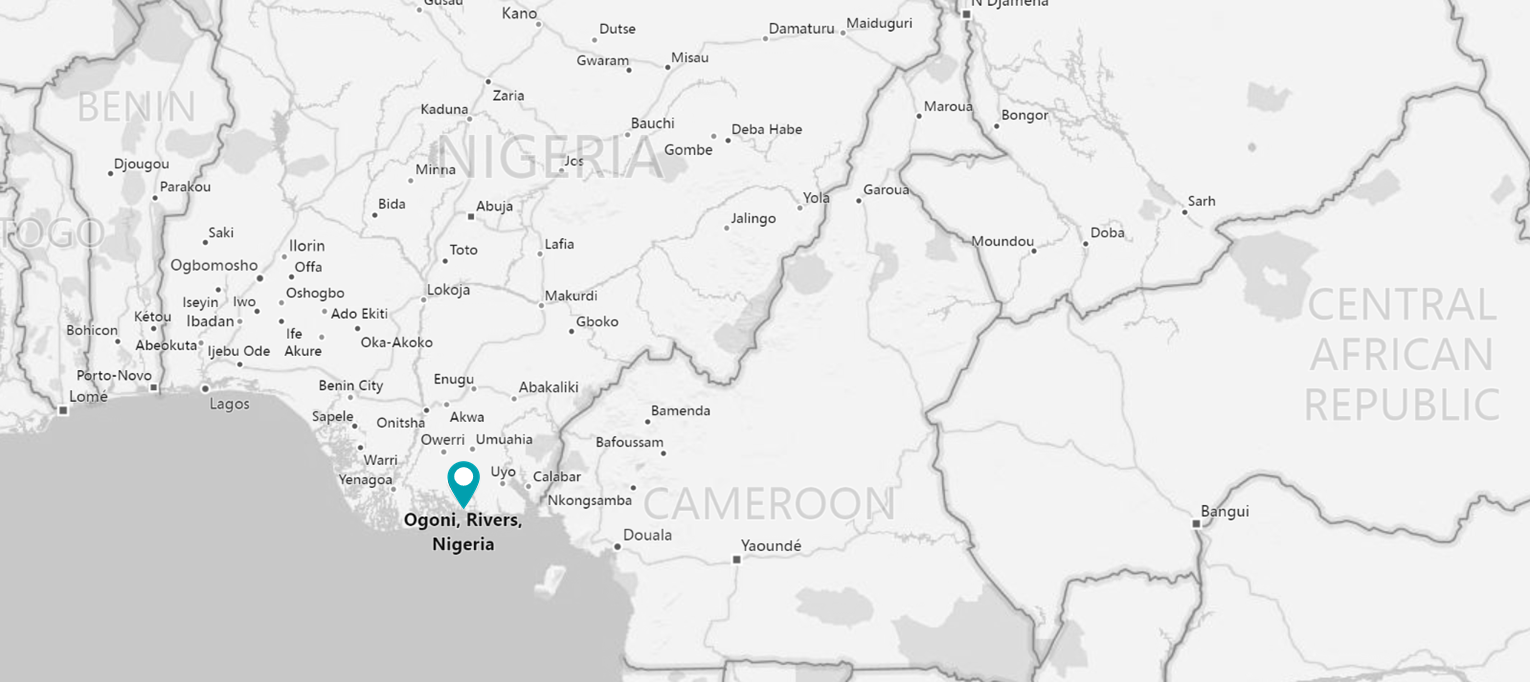
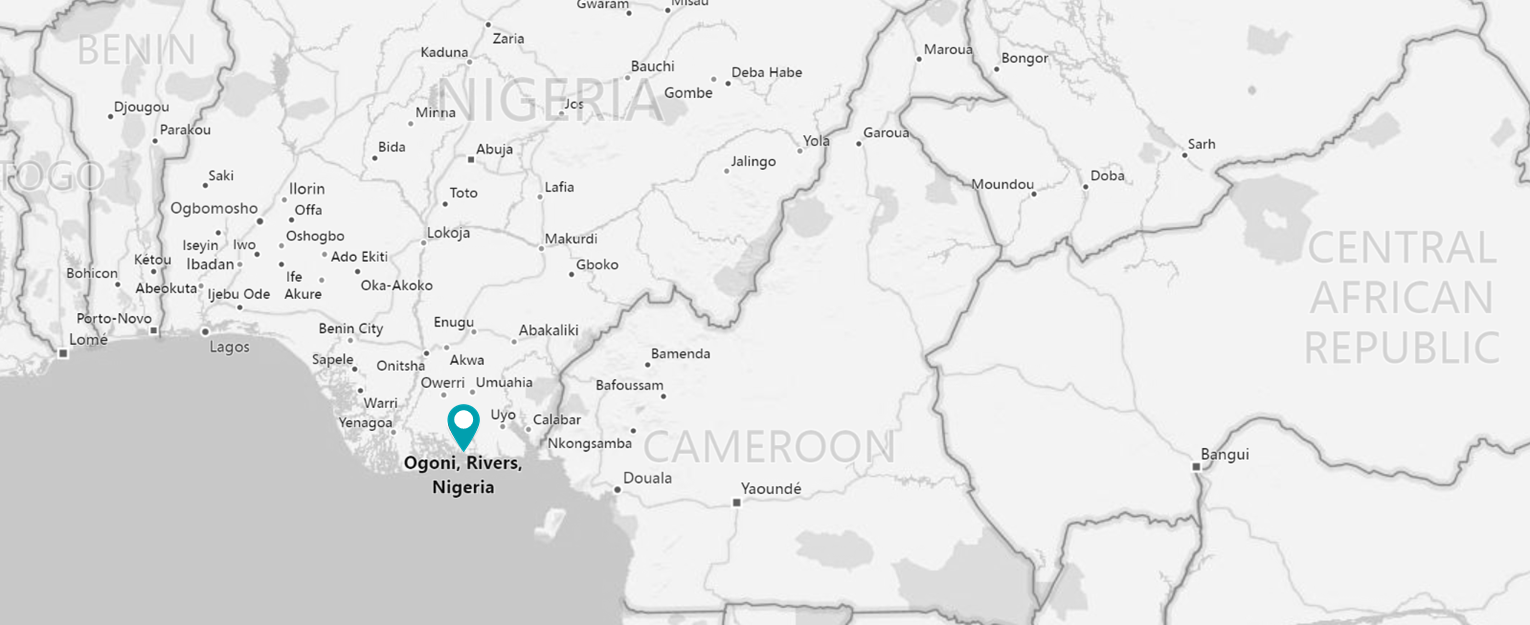
changed contact page to large map picture

diff --git a/client/src/pages/Contact/Contact.js b/client/src/pages/Contact/Contact.js
@@ -18,23 +18,33 @@ const Contact = () => (
                 </div>
             </div>
             <div className="row">
-            <div className="col-6">
-                <img alt="" src= {map} id="map-image" />
-            </div>
-                
-                <div className="col-6 text-center">
-                    <h4>ADDRESS:</h4>
+            <div className="col-12 text-center">
+                <img alt="" src= {map} id="map-image"/>
+                <div id="contactinfo">
+                    <h5>ADDRESS:</h5>
                     <h6>No: 22 Bank Road Bori<br/>Ogoni, Rivers State, Nigeria</h6>
-                    <h4>PHONE:</h4>
+                    <h5>PHONE:</h5>
                     <h6>09075542187</h6>
-                    <h4>EMAIL:</h4>
+                    <h5>EMAIL:</h5>
                     <h6>aidsnigeria@gmail.com<br/>panstudentsconnect@gmail.com </h6>
                 </div>
+            </div>
+                
+            {/* <div className="col-6 text-center">
+            <h4>ADDRESS:</h4>
+            <h6>No: 22 Bank Road Bori<br/>Ogoni, Rivers State, Nigeria</h6>
+            <h4>PHONE:</h4>
+            <h6>09075542187</h6>
+            <h4>EMAIL:</h4>
+            <h6>aidsnigeria@gmail.com<br/>panstudentsconnect@gmail.com </h6>
+            </div> */}
+
+                
                 
                 </div>
                 <div className="row">
                 <div className="col text-center">
-                <h3 id="sendmessage">SEND US A MESSAGE</h3>
+                <h3 id="sendmessage">SEND US A MESSAGE!</h3>
                 <br/>
                 </div>
                 </div>

diff --git a/client/src/pages/Contact/Contact.css b/client/src/pages/Contact/Contact.css
@@ -7,7 +7,7 @@
     color: rgb(224, 30, 61);
 }
 
-.contact-page h4 {
+.contact-page h5 {
     color: rgb(224, 30, 61);
     font-family: 'Fjalla One', sans-serif;
     text-transform: uppercase;
@@ -39,8 +39,8 @@
 
 .contact-page #map-image {
     width: 100%;
-    height: 90%;
-    
+    height: 100%;
+    /* border: .5px rgb(166,166,166) solid;     */
 }
 
 .contact-page input {
@@ -58,4 +58,19 @@
     padding-left: 7%;
     padding-right: 7%;
     border: none;
+}
+
+.contact-page #contactinfo {
+    position: absolute;
+    top: 50%;
+    left: 70%;
+    transform: translate(-50%, -50%);
+    background-color: white;
+    border: .5px rgb(166,166,166) solid;
+    padding: 2% 2.5% 2% 1.5%;
+    text-align: center;
+}
+
+.contact-page h6 {
+    margin-bottom: 10%;
 }
